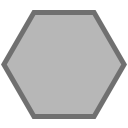
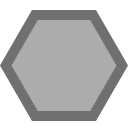
- resize tiles - implemented walking to NPC first to initiate dialogue

Changed region(s): [[0.0, 0.0625, 1.0, 0.9688]]

diff --git a/Assets/Scripts/Player/PlayerAction.cs b/Assets/Scripts/Player/PlayerAction.cs
@@ -1,20 +1,22 @@
 using UnityEngine;
 using System.Collections;
 
-public class PlayerMovement : MonoBehaviour {
+public class PlayerAction : MonoBehaviour {
 
-    public Vector3 velocity;
-    public Vector3 destination;
+    Vector3 velocity;
+    Vector3 destination;
     //float getMouse0InputTimer = 0f;
     //const float mouse0InputTimer = 0.05f;
 
     bool doAttack = false;
 
-    public static PlayerMovement instance;
+    public static PlayerAction instance;
     //RaycastHit hit;
     //RaycastTargetType raycastType;
     //GameObject raycastTarget;   // target of mouseover before clicking
     //GameObject clickTarget; // for knowing what object type the target is, e.g. can check if target enemy is within attack range
+
+        // set the "current attack" when player presses a key; else it's default attack
 
     // Use this for initialization
     void Start () {
@@ -22,7 +24,7 @@ public class PlayerMovement : MonoBehaviour {
         RaycastInfo.raycastTarget = null;
         RaycastInfo.clickTarget = null;
 
-        instance = GameObject.Find("Player").GetComponent<PlayerMovement>();
+        instance = GameObject.Find("Player").GetComponent<PlayerAction>();
     }
 
     // Update is called once per frame
@@ -51,12 +53,20 @@ public class PlayerMovement : MonoBehaviour {
             if (RaycastInfo.clickTarget)    // != null
             {
                 float distSquared = (destination - this.transform.position).sqrMagnitude;
-                if (distSquared < PlayerData.attackRangeSquared)
+                // attack
+                if (RaycastInfo.raycastType == RaycastTargetType.Raycast_Enemy && distSquared < PlayerData.attackRangeSquared)
                 {
                     velocity = Vector3.zero;
                     doAttack = true;
                     //clickTarget = null;   // don't null so you can attack that target?
                 }
+                // enter dialogue
+                else if (RaycastInfo.raycastType == RaycastTargetType.Raycast_NPC && distSquared < PlayerData.converseRangeSquared)
+                {
+                    DialogueManager.dManager.InitDialogue(RaycastInfo.clickTarget);
+                    velocity = Vector3.zero;
+                }
+                // move
                 else
                 {
                     this.transform.position += velocity * Time.deltaTime;
@@ -75,5 +85,29 @@ public class PlayerMovement : MonoBehaviour {
             }
         }
     }   // end of Update()
+
+    // Getters
+    public Vector3 GetVelocity()
+    {
+        return velocity;
+    }
+    public Vector3 GetDestination()
+    {
+        return destination;
+    }
+
+    // Setters
+    public void SetVelocity(Vector3 newVel)
+    {
+        velocity = newVel;
+    }
+    public void SetVelocityZero()
+    {
+        SetVelocity(Vector3.zero);
+    }
+    public void SetDestination(Vector3 newDest)
+    {
+        destination = newDest;
+    }
 
 }   // end of class

diff --git a/Assets/Scripts/EventSystem/NPCEventHandler.cs b/Assets/Scripts/EventSystem/NPCEventHandler.cs
@@ -12,6 +12,13 @@ public class NPCEventHandler : MonoBehaviour {
         if (DialogueManager.inDialogue)
             return;
 
+        RaycastInfo.clickTarget = RaycastInfo.GetRaycastTarget2D();
+
+        // walk to NPC
+        Vector2 NPCPos = this.transform.parent.position;
+        PlayerAction.instance.SetDestination(new Vector3(NPCPos.x, NPCPos.y, PlayerAction.instance.transform.position.z));
+        PlayerAction.instance.SetVelocity((PlayerAction.instance.GetDestination() - PlayerAction.instance.transform.position).normalized);
+
         // to save the click target
         //RaycastInfo.clickTarget = this;   // to store it
         // also store the type into RaycastInfo via getting tag/name
@@ -21,11 +28,13 @@ public class NPCEventHandler : MonoBehaviour {
 
         // activate Dialogue Manager
         //DialogueManager.dManager = GameObject.Find("DialogueManager").GetComponent<DialogueManager>();
-        DialogueManager.dManager.InitDialogue(this.gameObject);
 
-        PlayerMovement.instance.velocity = Vector3.zero;
         //dManager.RunDialogue(clickTarget.GetComponent<NPCDialogue>().GetDialogue());
         //dManager.CloseDialogue();
+
+        //DialogueManager.dManager.InitDialogue(this.gameObject);
+        //
+        //PlayerAction.instance.SetVelocityZero();
 #endif
     }
 

diff --git a/Assets/Scripts/EventSystem/TerrainEventHandler.cs b/Assets/Scripts/EventSystem/TerrainEventHandler.cs
@@ -15,8 +15,8 @@ public class TerrainEventHandler : MonoBehaviour {
         // Player Movement stuff
         RaycastInfo.clickTarget = RaycastInfo.GetRaycastTarget2D();
 
-        PlayerMovement.instance.destination = new Vector3(RaycastInfo.hit2D.point.x, RaycastInfo.hit2D.point.y, PlayerMovement.instance.transform.position.z);
-        PlayerMovement.instance.velocity = (PlayerMovement.instance.destination - PlayerMovement.instance.transform.position).normalized;
+        PlayerAction.instance.SetDestination(new Vector3(RaycastInfo.hit2D.point.x, RaycastInfo.hit2D.point.y, PlayerAction.instance.transform.position.z));
+        PlayerAction.instance.SetVelocity((PlayerAction.instance.GetDestination() - PlayerAction.instance.transform.position).normalized);
 #endif
     }
 

diff --git a/Assets/Scripts/Player/PlayerData.cs b/Assets/Scripts/Player/PlayerData.cs
@@ -3,10 +3,14 @@ using System.Collections;
 
 public static class PlayerData {
 
+    // can read from txt file so dunnid recompile. like lua scripting liddat
+    // players' skill data need read from file also
+
     // each weapon and/or attack skill will have its attack range.
     // Weapon objects shld be in PlayerInfo class
     // shld have a "pointer" to the current skill - the one that was clicked to do the attack
-    public static float attackRangeSquared = 1f;  // temp variable to represent weapon
+    public static float attackRangeSquared = 0.5f;  // temp variable to represent weapon
     public static float attackDmg = 10f;    // temp damage variable
 
+    public static float converseRangeSquared = 0.5f;  // distance between player & NPC to start dialogue
 }

diff --git a/Assets/Scripts/EventSystem/EnemyEventHandler.cs b/Assets/Scripts/EventSystem/EnemyEventHandler.cs
@@ -17,10 +17,8 @@ public class EnemyEventHandler : MonoBehaviour {
 
         // walk to enemy
         Vector2 enemyPos = this.transform.parent.position;
-        PlayerMovement.instance.destination = new Vector3(enemyPos.x, enemyPos.y, PlayerMovement.instance.transform.position.z);
-        PlayerMovement.instance.velocity = (PlayerMovement.instance.destination - PlayerMovement.instance.transform.position).normalized;
-
-        // attack enemy
+        PlayerAction.instance.SetDestination(new Vector3(enemyPos.x, enemyPos.y, PlayerAction.instance.transform.position.z));
+        PlayerAction.instance.SetVelocity((PlayerAction.instance.GetDestination() - PlayerAction.instance.transform.position).normalized);
 #endif
     }
 

diff --git a/Assets/Scripts/Enemy/EnemyData.cs b/Assets/Scripts/Enemy/EnemyData.cs
@@ -35,6 +35,7 @@ public class EnemyData : MonoBehaviour {
     {
         SetHP(HP - dmg);
 
+        // edit HP bar
         if (!HPBar) {
             HPBar = (Transform)Instantiate(HPBarPrefab, new Vector3(0, 0, 0), Quaternion.identity);
             HPBar.parent = this.transform.parent;
@@ -46,6 +47,8 @@ public class EnemyData : MonoBehaviour {
 
     void SetHP(float newHP)
     {
-        HP = Mathf.Max(newHP, 0f);
+        HP = newHP;
+        if (newHP <= 0)
+            Destroy(this.transform.parent.gameObject);
     }
 }
